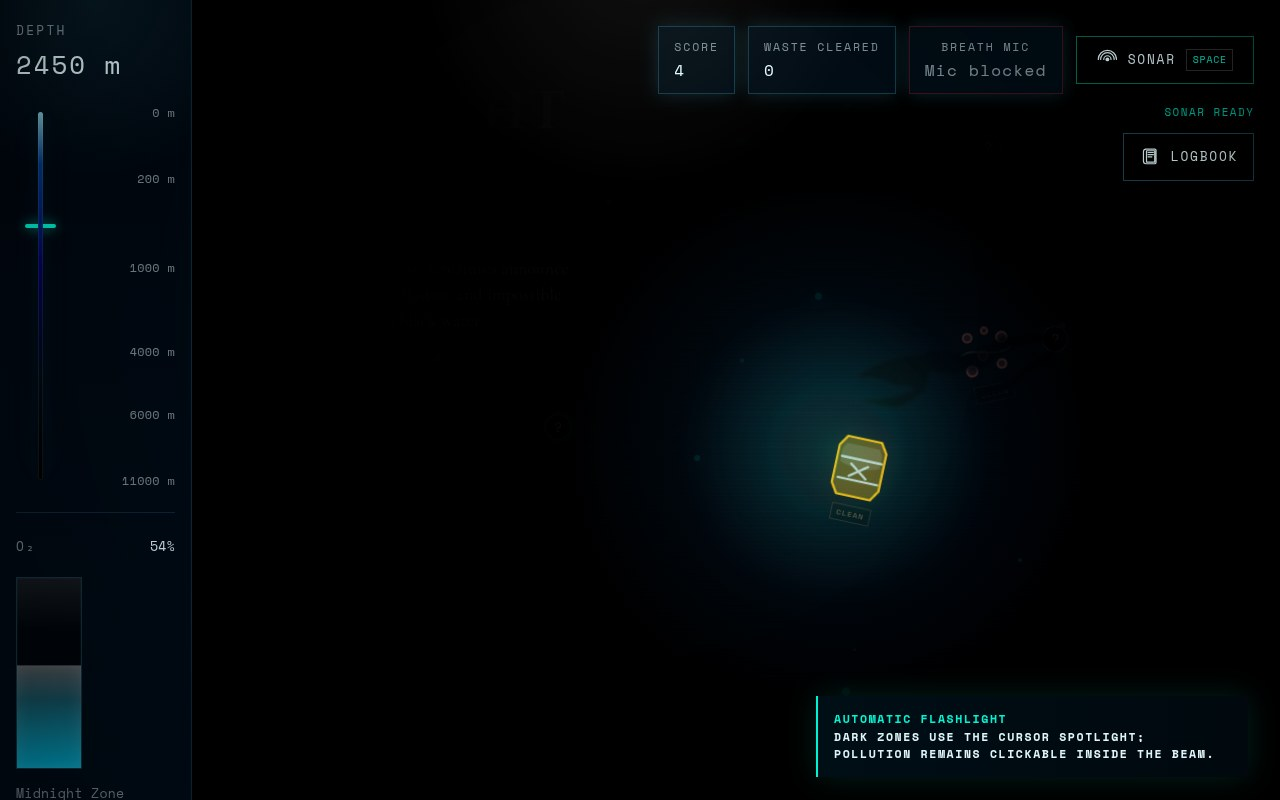
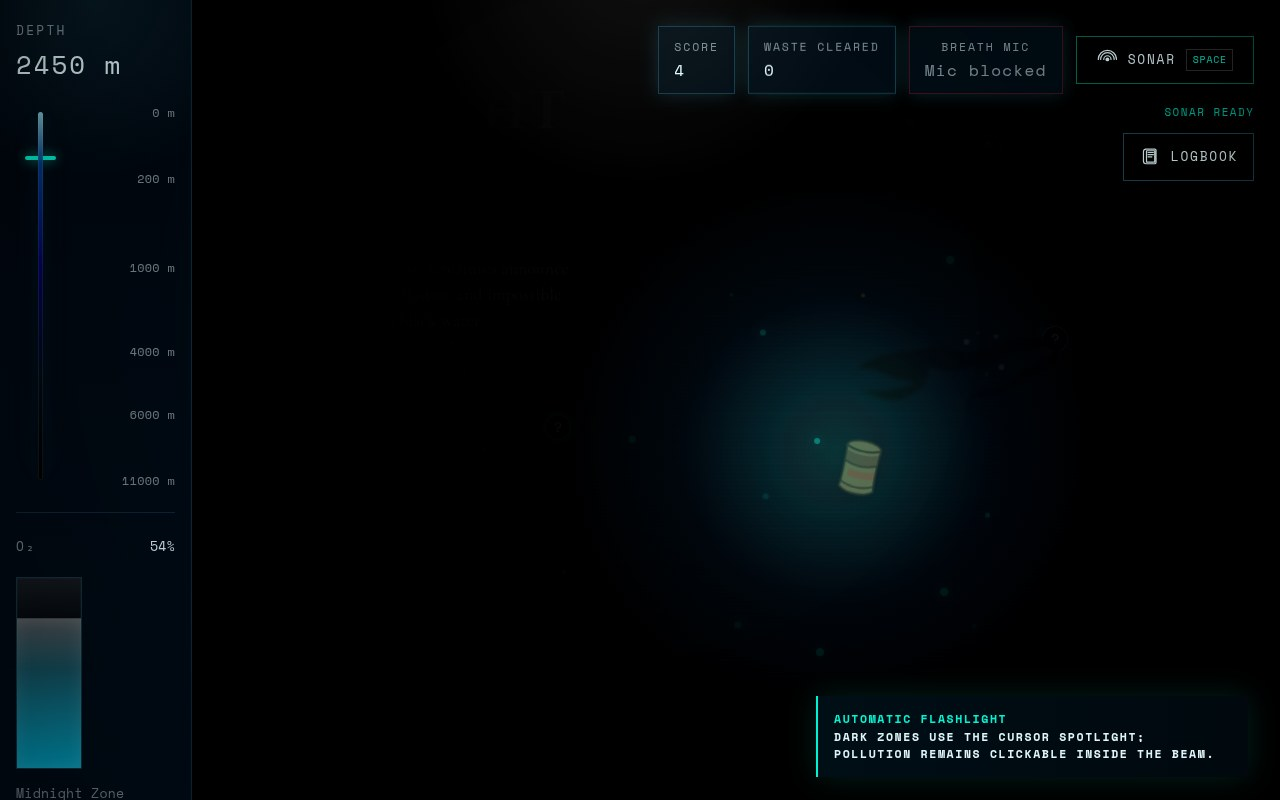
feat: use cc0 pollution sprites

Changed region(s): [[0.0, 0.75, 0.0625, 0.875], [0.625, 0.5312, 0.7188, 0.625], [0.0, 0.1875, 0.0625, 0.2188]]

diff --git a/app.js b/app.js
@@ -10,7 +10,7 @@ const zoneData = [
       "Light still reaches this layer. Caustic beams flicker overhead, and recognizable silhouettes move through clear blue water.",
     particleType: "surface",
     particleCount: 34,
-    pollutionTypes: ["bottle", "bag", "bottle", "bag", "line"],
+    pollutionTypes: ["bottle", "takeout-box", "bottle", "tire", "takeout-box", "line"],
     oxygenDrainMultiplier: 0.72,
   },
   {
@@ -24,7 +24,7 @@ const zoneData = [
       "The glow from above begins to fail. Bioluminescent sparks appear, and each reveal feels like turning on a light in the dark.",
     particleType: "bio",
     particleCount: 36,
-    pollutionTypes: ["ghost-net", "line", "bag", "gear"],
+    pollutionTypes: ["ghost-net", "line", "tire", "gear"],
     oxygenDrainMultiplier: 0.94,
   },
   {
@@ -342,6 +342,8 @@ const creatureData = [
 
 const pollutionPalette = {
   bottle: { main: "#8d9188", shade: "#5d625d", line: "#343a36", alpha: 0.76 },
+  "takeout-box": { main: "#878a80", shade: "#5b5d55", line: "#30332e", alpha: 0.76 },
+  tire: { main: "#383b35", shade: "#20241f", line: "#111410", alpha: 0.78 },
   bag: { main: "#d8d7ca", shade: "#a8aaa1", line: "#6f756e", alpha: 0.5 },
   line: { main: "#726d63", shade: "#4c4a45", line: "#2e302e", alpha: 0.72 },
   "ghost-net": { main: "#5f675f", shade: "#3f473f", line: "#222a25", alpha: 0.48 },
@@ -354,6 +356,12 @@ const pollutionPalette = {
   oil: { main: "#24251f", shade: "#0f1110", line: "#050606", alpha: 0.68 },
 };
 
+const pollutionSpritePaths = {
+  bottle: "assets/pollution/bottle2idle.png",
+  "takeout-box": "assets/pollution/boxidle.png",
+  tire: "assets/pollution/tireidle.png",
+};
+
 const pollutionZoneSettings = {
   sunlight: { initial: 8, respawn: 360, duration: [8.5, 12.5], size: [3.2, 5.0], drift: [-10, 14] },
   twilight: { initial: 5, respawn: 680, duration: [12.5, 17.5], size: [3.4, 5.4], drift: [-14, 10] },
@@ -363,6 +371,9 @@ const pollutionZoneSettings = {
 };
 
 const pollutionTypeSettings = {
+  bottle: { sizeBoost: 1.05 },
+  "takeout-box": { sizeBoost: 1.08 },
+  tire: { sizeBoost: 1.02 },
   bag: { sizeBoost: 1.15 },
   "ghost-net": { sizeBoost: 1.35 },
   line: { sizeBoost: 1.1 },
@@ -2042,6 +2053,10 @@ function createParticles(zoneEl, zone) {
 }
 
 function pollutionAsset(type) {
+  const spritePath = pollutionSpritePaths[type];
+  if (spritePath) {
+    return `<span class="pollution-item__sprite" style="--sprite-url:url('${spritePath}')" aria-hidden="true"></span>`;
+  }
   return pollutionSvg(type);
 }
 

diff --git a/styles.css b/styles.css
@@ -1350,10 +1350,43 @@ body.is-transitioning #zone-stage {
 }
 
 .pollution-item svg,
-.pollution-item__img {
+.pollution-item__img,
+.pollution-item__sprite {
   width: 100%;
   height: 100%;
   pointer-events: none;
+}
+
+.pollution-item__sprite {
+  display: block;
+  background-image: var(--sprite-url);
+  background-repeat: no-repeat;
+  background-position: 0 0;
+  background-size: 400% 100%;
+  image-rendering: pixelated;
+  filter:
+    saturate(0.2)
+    brightness(0.5)
+    contrast(0.9)
+    hue-rotate(180deg)
+    drop-shadow(0 7px 9px rgba(0, 0, 0, 0.34));
+  opacity: 0.74;
+  transform: rotate(-2deg);
+  animation: pollution-sprite-idle 720ms steps(4) infinite;
+  will-change: background-position, transform, opacity;
+}
+
+.pollution-item[data-type="tire"] .pollution-item__sprite {
+  filter:
+    saturate(0.15)
+    brightness(0.46)
+    contrast(1.05)
+    hue-rotate(170deg)
+    drop-shadow(0 7px 9px rgba(0, 0, 0, 0.38));
+}
+
+.pollution-item[data-type="takeout-box"] .pollution-item__sprite {
+  opacity: 0.68;
 }
 
 .pollution-item__img {
@@ -1484,6 +1517,16 @@ body.is-transitioning #zone-stage {
 .pollution-item:hover .pollution-item__img,
 .pollution-item:focus-visible .pollution-item__img {
   filter: drop-shadow(0 9px 11px rgba(0, 0, 0, 0.38)) brightness(1.14);
+}
+
+.pollution-item:hover .pollution-item__sprite,
+.pollution-item:focus-visible .pollution-item__sprite {
+  filter:
+    saturate(0.24)
+    brightness(0.64)
+    contrast(0.94)
+    hue-rotate(180deg)
+    drop-shadow(0 9px 11px rgba(0, 0, 0, 0.38));
 }
 
 .pollution-item:hover .pollution-item__tag,
@@ -2208,6 +2251,15 @@ body.is-transitioning #zone-stage {
   100% {
     opacity: 0;
     transform: translate3d(0, -1rem, 0) scale(1.4);
+  }
+}
+
+@keyframes pollution-sprite-idle {
+  0% {
+    background-position: 0 0;
+  }
+  100% {
+    background-position: 100% 0;
   }
 }
 

diff --git a/scripts/capture_feature_screenshots.py b/scripts/capture_feature_screenshots.py
@@ -8,6 +8,7 @@ import json
 import shutil
 import subprocess
 import sys
+import tempfile
 import time
 import urllib.request
 from pathlib import Path
@@ -20,6 +21,7 @@ OUT = ROOT / "docs" / "feature-screenshots"
 HTTP_PORT = 4175
 CDP_PORT = 9334
 VIEWPORT = {"width": 1280, "height": 800, "deviceScaleFactor": 1, "mobile": False}
+PROFILE_DIR = Path(tempfile.mkdtemp(prefix="deepdive-feature-screenshot-chrome-"))
 
 
 PROOF_CSS = """
@@ -29,6 +31,11 @@ body.screenshot-proof .zone__content {
 }
 
 body.screenshot-proof #zone-stage {
+  transition: none !important;
+}
+
+body.screenshot-proof #logbook-panel,
+body.screenshot-proof #creature-panel {
   transition: none !important;
 }
 
@@ -258,6 +265,8 @@ HELPER_JS = """
       refs.sonarButton.disabled = false;
       refs.sonarButton.classList.remove('is-cooling');
       refs.sonarStatus.textContent = 'SONAR READY';
+      closeLogbook();
+      hideCreaturePanel();
       renderLogbook();
       updateHud();
     },
@@ -302,6 +311,14 @@ HELPER_JS = """
 
     addTrashSet(zoneId) {
       clearZonePollution(zoneId);
+      if (zoneId === 'sunlight') {
+        this.trash(zoneId, 'bottle', '28%', '34%', '4.6rem', '-8deg');
+        this.trash(zoneId, 'takeout-box', '45%', '49%', '4.8rem', '8deg');
+        this.trash(zoneId, 'tire', '62%', '32%', '4.7rem', '2deg');
+        this.trash(zoneId, 'bottle', '75%', '58%', '4.2rem', '13deg');
+        this.trash(zoneId, 'takeout-box', '36%', '67%', '4.3rem', '-14deg');
+        return;
+      }
       this.trash(zoneId, 'ghost-net', '30%', '34%', '4.8rem', '8deg');
       this.trash(zoneId, 'line', '48%', '47%', '4.2rem', '-18deg');
       this.trash(zoneId, 'gear', '64%', '30%', '4.8rem', '2deg');
@@ -425,7 +442,7 @@ def launch() -> tuple[subprocess.Popen, subprocess.Popen]:
             "--window-size=1280,800",
             "--disable-gpu",
             "--no-sandbox",
-            "--user-data-dir=/tmp/deepdive-feature-screenshot-chrome",
+            f"--user-data-dir={PROFILE_DIR}",
             "about:blank",
         ],
         stdout=subprocess.DEVNULL,
@@ -537,15 +554,15 @@ def capture(session: ChromeSession) -> None:
     session.screenshot("04-wrong-answer-assisted-logbook/03-logbook-assisted-state.jpg")
 
     session.eval(
-        "__proof.zone('twilight', 76);"
-        "__proof.addTrashSet('twilight');"
-        "__proof.note('<strong>DRIFTING CLEANUP TARGETS</strong><br>Trash is visible, clickable, and styled as muted illustrated underwater debris.');"
+        "__proof.zone('sunlight', 92);"
+        "__proof.addTrashSet('sunlight');"
+        "__proof.note('<strong>DRIFTING CLEANUP TARGETS</strong><br>CC0 floating-trash sprites are desaturated into murky ocean debris.');"
     )
     session.screenshot("05-pollution-cleanup/01-drifting-trash-targets-visible.jpg")
 
     session.eval(
-        "__proof.zone('twilight', 76);"
-        "__proof.addTrashSet('twilight');"
+        "__proof.zone('sunlight', 92);"
+        "__proof.addTrashSet('sunlight');"
         "document.querySelector('.pollution-item').click();"
         "__proof.note('<strong>CLEANUP POP</strong><br>Clicked trash bursts while Waste Cleared and Score increment in the HUD.');"
     )
@@ -553,13 +570,13 @@ def capture(session: ChromeSession) -> None:
     session.screenshot("05-pollution-cleanup/02-trash-pop-and-counter-increment.jpg")
 
     session.eval(
-        "__proof.zone('twilight', 76);"
-        "__proof.addTrashSet('twilight');"
+        "__proof.zone('sunlight', 92);"
+        "__proof.addTrashSet('sunlight');"
         "state.pollutionCollected = 5;"
-        "state.zonePollutionCollected.twilight = 5;"
+        "state.zonePollutionCollected.sunlight = 5;"
         "computeScore();"
         "updateHud();"
-        "getZoneNode('twilight').classList.add('is-cleansed');"
+        "getZoneNode('sunlight').classList.add('is-cleansed');"
         "__proof.note('<strong>ZONE CLEANSED</strong><br>After several collections the zone receives cleaner/brighter visual feedback.');"
     )
     session.screenshot("05-pollution-cleanup/03-cleansed-zone-feedback.jpg")
@@ -634,6 +651,7 @@ def main() -> int:
                     process.wait(timeout=3)
                 except subprocess.TimeoutExpired:
                     process.kill()
+        shutil.rmtree(PROFILE_DIR, ignore_errors=True)
 
 
 if __name__ == "__main__":

diff --git a/README.md b/README.md
@@ -43,14 +43,15 @@ http://127.0.0.1:4173/
 - Automatic flashlight cursor in Midnight, Abyssal, and Hadal zones
 - Progressive mobile tilt support for spotlight movement and zone navigation
 - Giant squid background pass in the Twilight Zone with a local NOAA hydrophone cue; the actual Giant Squid discovery remains in Midnight
-- Pollution collection loop with illustrated SVG cleanup targets, visible cleanup feedback, and zone mood response
+- Pollution collection loop with CC0 floating-trash sprites near the surface, darker SVG debris in deep zones, visible cleanup feedback, and zone mood response
 - Wrong-answer learning flow with correct-answer feedback, second attempt, and assisted logbook state
 - Logbook, creature detail panel, assisted IDs, and rarity filters
 - Tuned O2 economy with faster drain under deeper pressure and smaller assisted refill values
 - Normalized 100-point scoring across discovery, cleanup, streak, accuracy, and zone completion
 - Results screen with final rank, score stats, sonar usage, and zone-by-zone breakdown
 - Local art assets flattened into `assets/`
-- Muted inline SVG pollution illustrations tuned per ocean zone
+- Surface pollution sprites from OpenGameArt's CC0 Trash Trawler / Pixel Art Lake Assets pack, filtered into a muted underwater palette
+- Muted inline SVG pollution illustrations for deep-zone debris where free matching assets are not available
 - Local audio assets in `assets/audio/`; active ambience is generated with Web Audio, and the squid easter egg uses a local NOAA cue so the demo is offline-safe and does not stream sound files at runtime
 
 ## Quick checklist
@@ -85,3 +86,4 @@ Breath mic requires `localhost` or HTTPS. If the HUD shows `Tap retry` or `Mic b
 
 - `assets/audio/sperm_whale_clicks.ogg`: "Sperm Whale Ordinary Clicks" from Wikimedia Commons, CC0.
 - `assets/audio/noaa_bloop.wav`, `assets/audio/noaa_calving.wav`, `assets/audio/noaa_tremor.wav`, `assets/audio/noaa_julia.wav`: NOAA PMEL Acoustics public sound examples.
+- `assets/pollution/bottle2idle.png`, `assets/pollution/boxidle.png`, `assets/pollution/tireidle.png`: Pixel Art Lake Assets / Trash Trawler by AmberFallStudio on OpenGameArt, CC0.

diff --git a/docs/feature-screenshots/README.md b/docs/feature-screenshots/README.md
@@ -16,7 +16,7 @@ These screenshots were captured from the running browser app at `1280x800`. Each
 ## Verification Notes
 
 - Sonar screenshots show only creature/lifeform returns; pollution is not highlighted by sonar.
-- Pollution screenshots use muted inline illustrated debris and include a visible waste counter increment from a click.
+- Pollution screenshots use desaturated CC0 Trash Trawler sprites for visible surface debris and include a visible waste counter increment from a click.
 - Wrong-answer screenshots show the educational second-chance flow instead of removing the creature.
 - Results screenshots show the score breakdown judges may not reach during a short demo.
 
